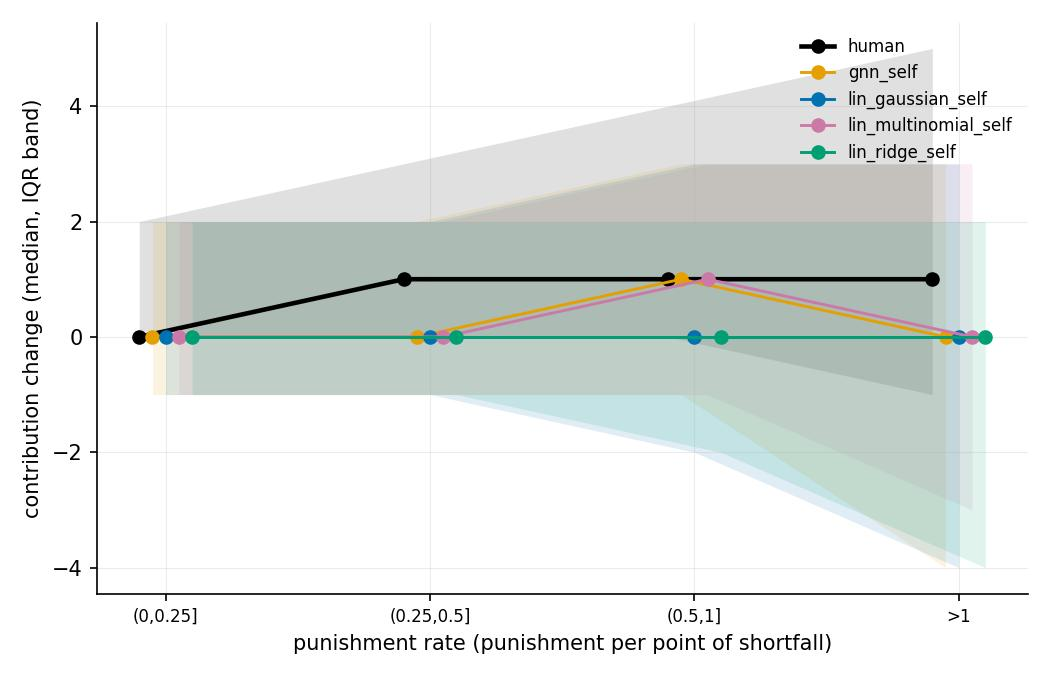
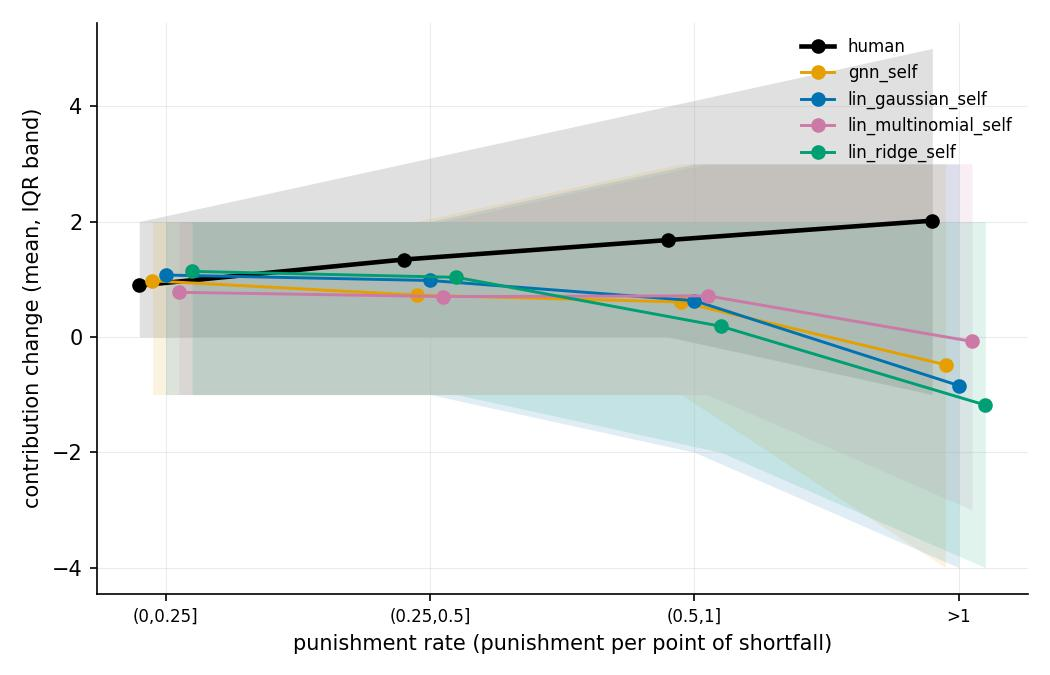
Center the RCB visual on the mean (#139)
- add a center param to band_lineplot / _stratum_stats (default median,
  RPA/RPB unchanged)
- RCB_line now plots bin means, matching the mean-based RCB metric
- regenerate RCB_line.jpg for the 9 evaluated runs; scores untouched

diff --git a/src/aimanager/evaluation_suite/visuals.py b/src/aimanager/evaluation_suite/visuals.py
@@ -311,27 +311,29 @@ RCA_ORDER = [
 ]
 
 
-def _stratum_stats(obs, order):
-    """median / q25 / q75 of observations per stratum (index level 0)."""
+def _stratum_stats(obs, order, center="median"):
+    """center (median or mean) / q25 / q75 of observations per stratum
+    (index level 0)."""
     grouped = obs.groupby(level=0)
+    mid = grouped.mean() if center == "mean" else grouped.median()
     return (
-        grouped.median().reindex(order),
+        mid.reindex(order),
         grouped.quantile(0.25).reindex(order),
         grouped.quantile(0.75).reindex(order),
     )
 
 
-def band_lineplot(ax, human, sims, obs, order, xlabel, ylabel):
-    """Median line with an IQR band per source over categorical strata;
-    sources are dodged slightly on x so integer-quantised medians that
+def band_lineplot(ax, human, sims, obs, order, xlabel, ylabel, center="median"):
+    """Central line with an IQR band per source over categorical strata;
+    sources are dodged slightly on x so integer-quantised centers that
     coincide stay visible."""
     x = np.arange(len(order))
     sources = _sources(human, sims)
     for i, (label, df, color, lw) in enumerate(sources):
         dodge = (i - (len(sources) - 1) / 2) * 0.05
-        med, q25, q75 = _stratum_stats(obs(df), order)
+        mid, q25, q75 = _stratum_stats(obs(df), order, center)
         ax.plot(
-            x + dodge, med.values, color=color, linewidth=lw, marker="o", label=label
+            x + dodge, mid.values, color=color, linewidth=lw, marker="o", label=label
         )
         ax.fill_between(
             x + dodge, q25.values, q75.values, color=color, alpha=0.12, linewidth=0
@@ -339,7 +341,7 @@ def band_lineplot(ax, human, sims, obs, order, xlabel, ylabel):
     ax.set_xticks(x)
     ax.set_xticklabels(order, fontsize=8)
     ax.set_xlabel(xlabel)
-    ax.set_ylabel(f"{ylabel} (median, IQR band)")
+    ax.set_ylabel(f"{ylabel} ({center}, IQR band)")
 
 
 @plot("RCA_bar")
@@ -373,6 +375,7 @@ def _rcb_obs(df):
 
 @plot("RCB_line")
 def rcb_line(ax, human, sims):
+    # mean center: matches the RCB metric, which compares bin means
     band_lineplot(
         ax,
         human,
@@ -381,6 +384,7 @@ def rcb_line(ax, human, sims):
         RCB_LABELS,
         "punishment rate (punishment per point of shortfall)",
         "contribution change",
+        center="mean",
     )
 
 
